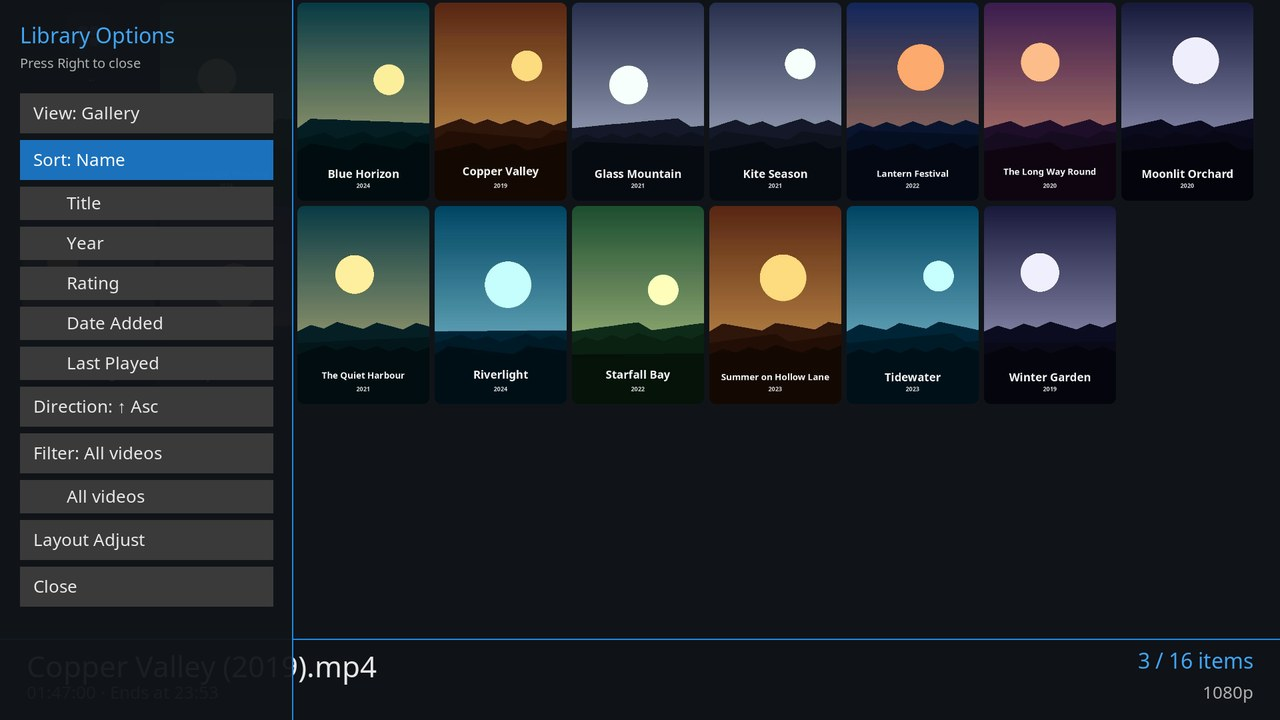
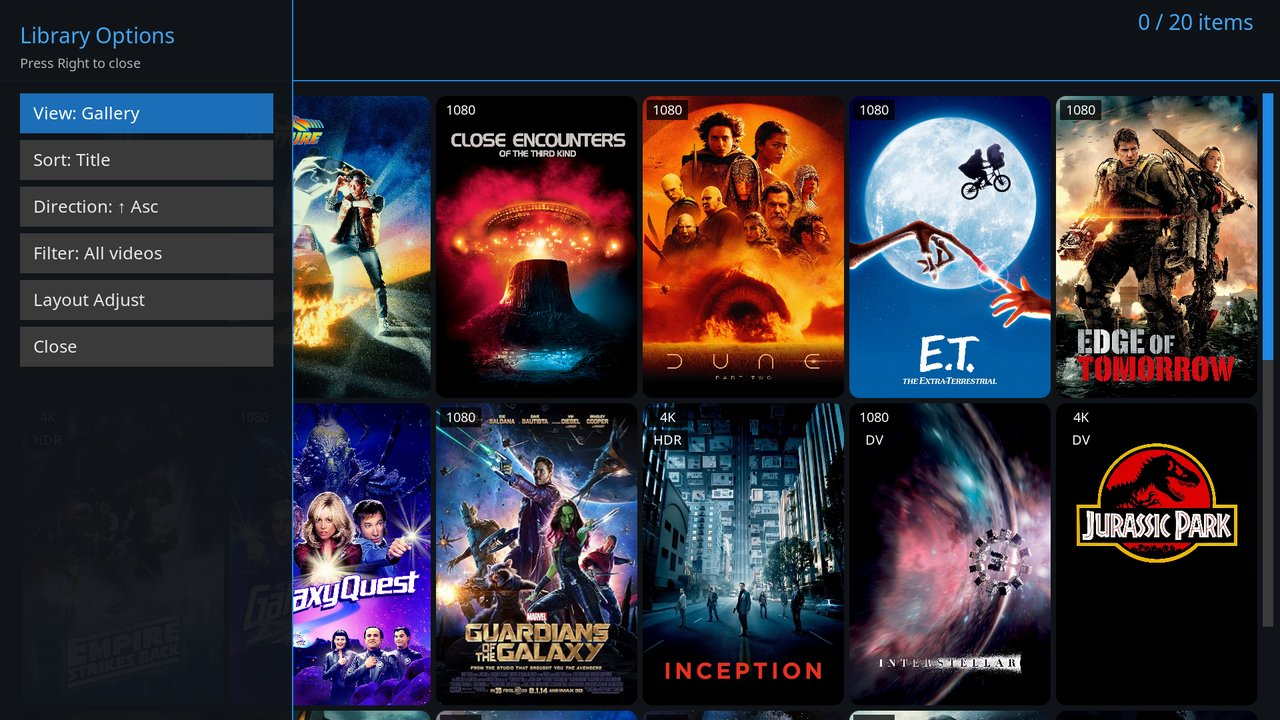
Release v0.23.27

diff --git a/README.md b/README.md
@@ -1,56 +1,86 @@
 <p align="center"><img src="screenshots/banner.png" width="100%" alt="Functional, a Kodi skin. The banner reads Functional, a clean, configurable Kodi skin, beside three blue tiles: a poster grid, a play button with a clock, and a list."></p>
 
-<p align="center"><a href="#features">Features</a> · <a href="#quick-start">Quick start</a> · <a href="INSTALL.md">Install guide</a> · <a href="docs/SETTINGS.md">Settings</a> · <a href="CHANGELOG.md">Changelog</a></p>
+<p align="center"><a href="#quick-start">Quick start</a> · <a href="#highlights">Highlights</a> · <a href="INSTALL.md">Install guide</a> · <a href="docs/FEATURES.md">Every feature</a> · <a href="docs/SETTINGS.md">Settings</a> · <a href="CHANGELOG.md">Changelog</a></p>
 
 <p align="center">
   <img src="https://img.shields.io/badge/version-0.23.27-blue" alt="Version 0.23.27">
   <img src="https://img.shields.io/badge/licence-GPL--2.0--or--later-green" alt="GPL 2.0 or later licence">
   <img src="https://img.shields.io/badge/python-3-3776AB?logo=python&logoColor=white" alt="Python 3 helper service">
   <img src="https://img.shields.io/badge/Kodi-21%20Omega-17B2E7?logo=kodi&logoColor=white" alt="Kodi 21 Omega">
-  <img src="https://img.shields.io/badge/type-Kodi%20skin-0d162b" alt="Kodi skin">
 </p>
 
-A clean Kodi skin where every part is configurable from skin settings, instead of a fixed layout you have to live with.
+**Your films and shows first, and every screen yours to set up.** Functional is a clean Kodi 21 skin built around your library: big poster art, backdrops from what you actually watch, Next Up behind a tab on Home, and a settings page for nearly everything you see, so you shape the layout instead of putting up with one.
 
-<p align="center"><img src="screenshots/hero-home.jpg" width="640" alt="The Functional home screen: the main menu of Movies, TV Shows, Music, Pictures, Lists and Stats over a dark backdrop, the clock and date top right, round Favourites, Add-ons, Settings and Power buttons bottom right, and the Continue Watching and Recently Added tabs along the bottom edge."></p>
+<p align="center"><img src="screenshots/hero-home.jpg" width="820" alt="The Functional home screen over the Interstellar backdrop: the main menu of Movies, TV Shows, Music, Pictures, Lists and Stats, live library counts and watching time on the right, the clock and date top right, and the Continue Watching and Recently Added tabs along the bottom edge."></p>
+
+| | |
+| --- | --- |
+| ![Gallery view of famous science fiction posters, Back to the Future focused, with its year, age and 4K badge in the header](screenshots/gallery.jpg) | ![The Back to the Future information page: poster, genres, runtime, age rating, plot, director and a row of cast photos, with Play, Trailer and Choose art buttons](screenshots/movie-info.jpg) |
+| Poster gallery with resolution badges | Film information with cast |
 
 ## Quick start
 
-Functional needs Kodi 21 (Omega).
+Functional needs Kodi 21 (Omega). It installs once and then updates itself, like anything from the official Kodi repository.
 
-1. Install the `repository.functional` zip once, from Kodi's **Install from zip file**.
-2. Install the skin from that repository: **Install from repository > Functional Repository > Look and feel > Skin > Functional**.
+1. Download the [repository zip](https://github.com/c0def0rc0ffee/Functional/tree/repo/zips/repository.functional) and install it from Kodi's **Install from zip file** (Kodi asks once to allow unknown sources).
+2. **Install from repository > Functional Repository > Look and feel > Skin > Functional**.
 3. Switch to it under **Settings > Interface > Skin**.
 
-Kodi then keeps the skin up to date by itself. The download link, the one time Unknown sources step, and the other ways to install (a release zip, a manual copy, an unattended update at boot) are in [INSTALL.md](INSTALL.md).
+Other ways to install, including a release zip and an unattended update at boot, are in [INSTALL.md](INSTALL.md). Found a problem? [Open an issue](https://github.com/c0def0rc0ffee/Functional/issues). Like it? A star helps other people find it.
 
-## Features
+## Highlights
 
-| | |
-| --- | --- |
-| **Home with rotating backgrounds** | Recently watched, random, genre or folder slideshows, on a time of day schedule |
-| **Gallery and list views** | Poster grid in four sizes, watched badges, and an info bar with an Ends at time |
-| **Slide out library menu** | View, sort, filter, genre and search without leaving the list |
-| **Continue Watching and Next Up** | In progress films and the next episode of every show, behind a tab on Home |
-| **Lists and Favourites** | Named lists of anything playable, sent to the queue in order or shuffled; favourites sorted by type |
-| **Sleep timer** | At a set time, when the current video ends, or after a number of episodes |
-| **Video OSD** | Finish time, resolution badge, and an optional buffer readout with a Full Buffer button |
-| **Weather** | Hourly and five day forecast window, plus a widget beside the clock |
-| **Accent colours and seasonal themes** | Eight accents or any colour you pick; Halloween and Christmas themes |
-| **Skip Intro pill** | Skips intros and recaps your Jellyfin server has marked (needs the Intro Skipper or TheIntroDB server plugin); off by default |
+### Pick up where you left off
+
+A tab on Home opens **Continue Watching**: films and episodes part way through, and a **Next Up** row with the next episode of every show you are following. Hold Select on any of them to resume or mark watched.
+
+<p align="center"><img src="screenshots/continue-watching.jpg" width="820" alt="Continue Watching open on Home: Star Wars, Back to the Future and Jurassic Park part watched with progress bars, a Mandalorian episode under Episodes, and a Next Up row with Star Trek: The Next Generation and Doctor Who."></p>
+
+### Backdrops from your own library
+
+Home shows fanart from what you recently watched, a random pick from the whole library, one genre, a folder of your own pictures or a single image. Swap the whole set up on a time of day schedule, add a slow zoom, show it behind every screen, or keep a film playing behind the menus while you browse.
+
+### Sort, filter and search without leaving the list
+
+Press Left at the edge of any library view and **Library Options** slides out: view, sort and direction, watched filter, genre, search and layout, all applied as you go.
+
+<p align="center"><img src="screenshots/library-options.jpg" width="820" alt="The Library Options panel slid out over the poster gallery, showing View, Sort, Direction, Filter, Layout Adjust and Close."></p>
+
+### An OSD that tells you when you will finish
+
+Title, episode, elapsed and total time, the time the video ends, a resolution badge, and an optional buffer readout with a Full Buffer button for shaky connections.
+
+<p align="center"><img src="screenshots/video-osd.jpg" width="820" alt="The video OSD over Star Trek: The Next Generation, Where No One Has Gone Before: show poster, elapsed time, Ends at time, buffer readout, 1080p badge and the transport buttons."></p>
+
+### Next episode, one press away
+
+Near the end of an episode a card offers the next one with **Play Now**. Off by default, and each show can have its own choice.
+
+<p align="center"><img src="screenshots/next-episode-card.jpg" width="420" alt="The next episode card: Up Next, The Mandalorian S1E2, Chapter 2: The Child, This one ends in 00:57, and a Play Now button."></p>
+
+### Settings you can see
+
+Nine pages of skin settings, a line under the page list on what the focused setting does, and an optional live preview of the screen it changes. Every setting is backed up as you go and can be restored in one step.
+
+<p align="center"><img src="screenshots/skin-settings.jpg" width="820" alt="Skin Settings on the Overall page with Accent Colour focused, its description below the page list, and a small live preview of the Home screen in the bottom left corner."></p>
+
+## And also
+
+- **Lists**: named lists of anything playable, sent to the queue in order or shuffled
+- **Favourites** sorted into Movies, TV, Music, Apps and Other, with counts
+- **Sleep timer** at a set time, at the end of the current video, or after a number of episodes
+- **Weather** window with hourly and five day forecasts, plus a widget beside the clock
+- **Accent colours**: eight presets or any colour you pick, and Halloween and Christmas themes
+- **Skip Intro pill** for intros and recaps your Jellyfin server has marked (needs the Intro Skipper or TheIntroDB server plugin; off by default)
+- **Your own main menu**: eight slots, each any skin screen or any Favourite, at the top, centre or bottom
 
 Every feature in detail: [docs/FEATURES.md](docs/FEATURES.md). Every setting, page by page: [docs/SETTINGS.md](docs/SETTINGS.md).
 
-## Screenshots
+## Good to know
 
-| | |
-| --- | --- |
-| ![Gallery view of sample films, the focused film's runtime and Ends at time in the info bar](screenshots/gallery.jpg) | ![The Library Options panel slid out over the gallery, with the Sort and Filter lists open](screenshots/library-options.jpg) |
-| Gallery view with the Ends at time | Library options, without leaving the list |
-| ![The video OSD over sample footage: title, elapsed time, Ends at time, buffer readout and resolution badge](screenshots/video-osd.jpg) | ![Skin Settings open on the Overall page, with the page list down the left](screenshots/skin-settings.jpg) |
-| The video OSD | Skin settings |
-
-PVR/Live TV and Games are not skinned; use Estuary for those.
+- Kodi 21 (Omega) only.
+- PVR, Live TV and Games are not skinned; switch to Estuary for those.
+- Film and TV artwork in the screenshots belongs to its owners and is shown only to illustrate the skin with a real library.
 
 ## Changes and licence
 

diff --git a/docs/FEATURES.md b/docs/FEATURES.md
@@ -41,7 +41,7 @@ The background is not limited to the home screen:
 
 ## Video Library
 
-![Gallery view of sample films, the focused film's runtime and Ends at time in the info bar](../screenshots/gallery.jpg)
+![Gallery view of famous science fiction posters, Back to the Future focused, with its year, age and 4K badge in the header](../screenshots/gallery.jpg)
 
 - **Gallery view**: poster grid with four sizes (Small, Medium, Large, Extra Large), plus a small-grid column count toggle (11/12) for TVs with overscan, and a Tall/Compact poster-shape option
 - **List view**: traditional file list alternative
@@ -54,7 +54,7 @@ The background is not limited to the home screen:
 
 ## Slide-Out Library Options
 
-![The Library Options panel slid out over the gallery, with the Sort and Filter lists open](../screenshots/library-options.jpg)
+![The Library Options panel slid out over the poster gallery, showing View, Sort, Direction, Filter, Layout Adjust and Close](../screenshots/library-options.jpg)
 
 A left-side panel that slides in over the library, with collapsible dropdowns:
 
@@ -70,7 +70,7 @@ A left-side panel that slides in over the library, with collapsible dropdowns:
 
 ## Video OSD
 
-![The video OSD over sample footage: title, elapsed time, Ends at time, buffer readout and resolution badge](../screenshots/video-osd.jpg)
+![The video OSD over a Star Trek: The Next Generation episode: title, elapsed time, Ends at time, buffer readout and resolution badge](../screenshots/video-osd.jpg)
 
 - Compact on-screen display with animated slide-in
 - Title row: movie title with year, or TV show name with season/episode and episode title, with a filename fallback for unscraped content

diff --git a/docs/SETTINGS.md b/docs/SETTINGS.md
@@ -2,7 +2,7 @@
 
 All settings live in **Settings > Skin Settings**. The pages are listed down the left; each page is described below. Back to the [README](../README.md), or see [FEATURES.md](FEATURES.md) for what each part of the skin does.
 
-![Skin Settings open on the Overall page, with the page list down the left](../screenshots/skin-settings.jpg)
+![Skin Settings open on the Overall page, with the page list down the left and a live preview of Home in the corner](../screenshots/skin-settings.jpg)
 
 Toggle settings show an accent **dot** when on. Most changes apply immediately; a few service-backed ones take effect on the next launch.
 
